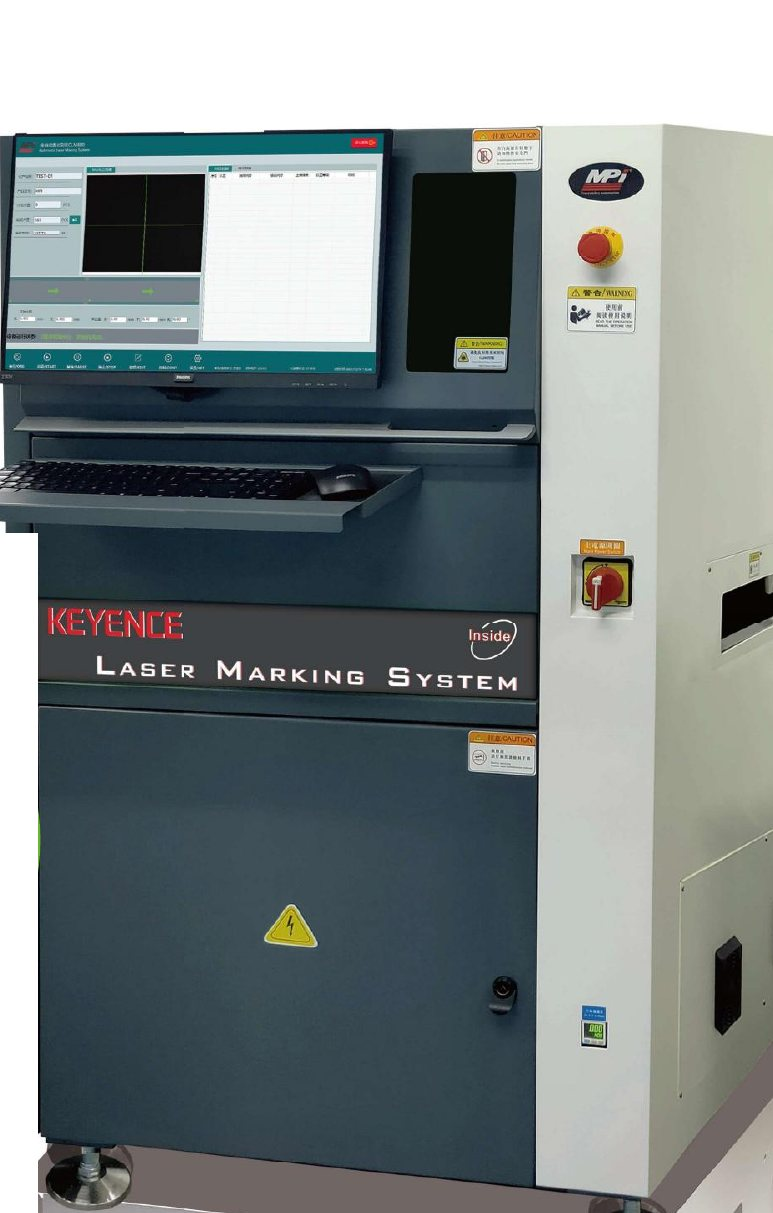
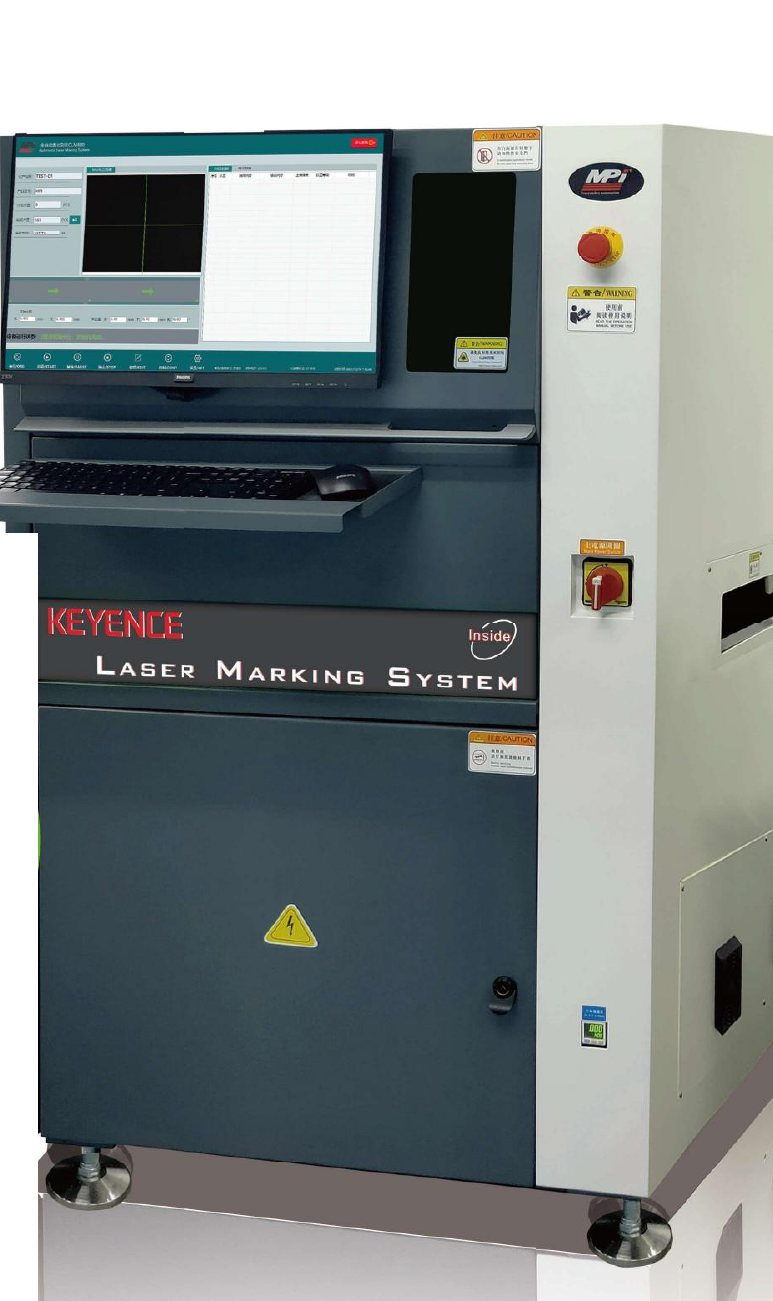
Add all Panasonic products; match CLM-Z photo to other MPI images
- NPM-VF under THT component insertion; MD-P300 and UA3P under Others
  (new Flip chip bonding and 3D measurement sections)
- CLM-Z thumbnail on the same grey backdrop as the MPI series
- Product card images can no longer stretch a card

Claude-Session: https://claude.ai/code/session_01VNCB5mrEn3sWxV4jLiwmdx

diff --git a/src/data/catalog.js b/src/data/catalog.js
@@ -112,7 +112,7 @@ export const categories = [
     name: "Others",
     short: "Others",
     summary:
-      "Board handling, first article inspection, in-circuit and functional test, thermal profiling.",
+      "Board handling, FAI, in-circuit and functional test, thermal profiling, flip chip bonding and 3D measurement.",
     sections: [
       {
         id: "handling",
@@ -138,6 +138,14 @@ export const categories = [
         id: "profiler",
         label: "Thermal profiling",
       },
+      {
+        id: "bonding",
+        label: "Flip chip bonding",
+      },
+      {
+        id: "metrology",
+        label: "3D measurement",
+      },
     ],
   },
 ];
@@ -147,7 +155,7 @@ export const brands = [
     id: "panasonic",
     name: "Panasonic",
     logo: null,
-    focus: "Screen printing and component placement",
+    focus: "Printing, placement, odd-form insertion, flip chip bonding, 3D measurement",
   },
   {
     id: "tamura",
@@ -234,6 +242,33 @@ export const products = [
     category: "smt",
     section: "placement",
     href: "/products/panasonic/details/npm-gh",
+    image: null,
+  },
+  {
+    id: "panasonic-npm-vf",
+    name: "NPM-VF",
+    brand: "Panasonic",
+    category: "tht",
+    section: "insert",
+    href: "/products/panasonic/details/npm-vf",
+    image: null,
+  },
+  {
+    id: "panasonic-md-p300",
+    name: "MD-P300",
+    brand: "Panasonic",
+    category: "others",
+    section: "bonding",
+    href: "/products/panasonic/details/md-p300",
+    image: null,
+  },
+  {
+    id: "panasonic-ua3p",
+    name: "UA3P Series",
+    brand: "Panasonic",
+    category: "others",
+    section: "metrology",
+    href: "/products/panasonic/details/ua3p",
     image: null,
   },
   {

diff --git a/src/styles/site.css b/src/styles/site.css
@@ -894,9 +894,15 @@ body.menu-open .site-header.is-overlay {
   padding: 18px;
   border-bottom: 1px solid var(--line);
 }
+.product-card__media {
+  position: relative;
+  overflow: hidden;
+}
 .product-card__media img {
-  max-height: 100%;
-  width: auto;
+  position: absolute;
+  inset: 18px;
+  width: calc(100% - 36px);
+  height: calc(100% - 36px);
   object-fit: contain;
   mix-blend-mode: multiply;
 }
